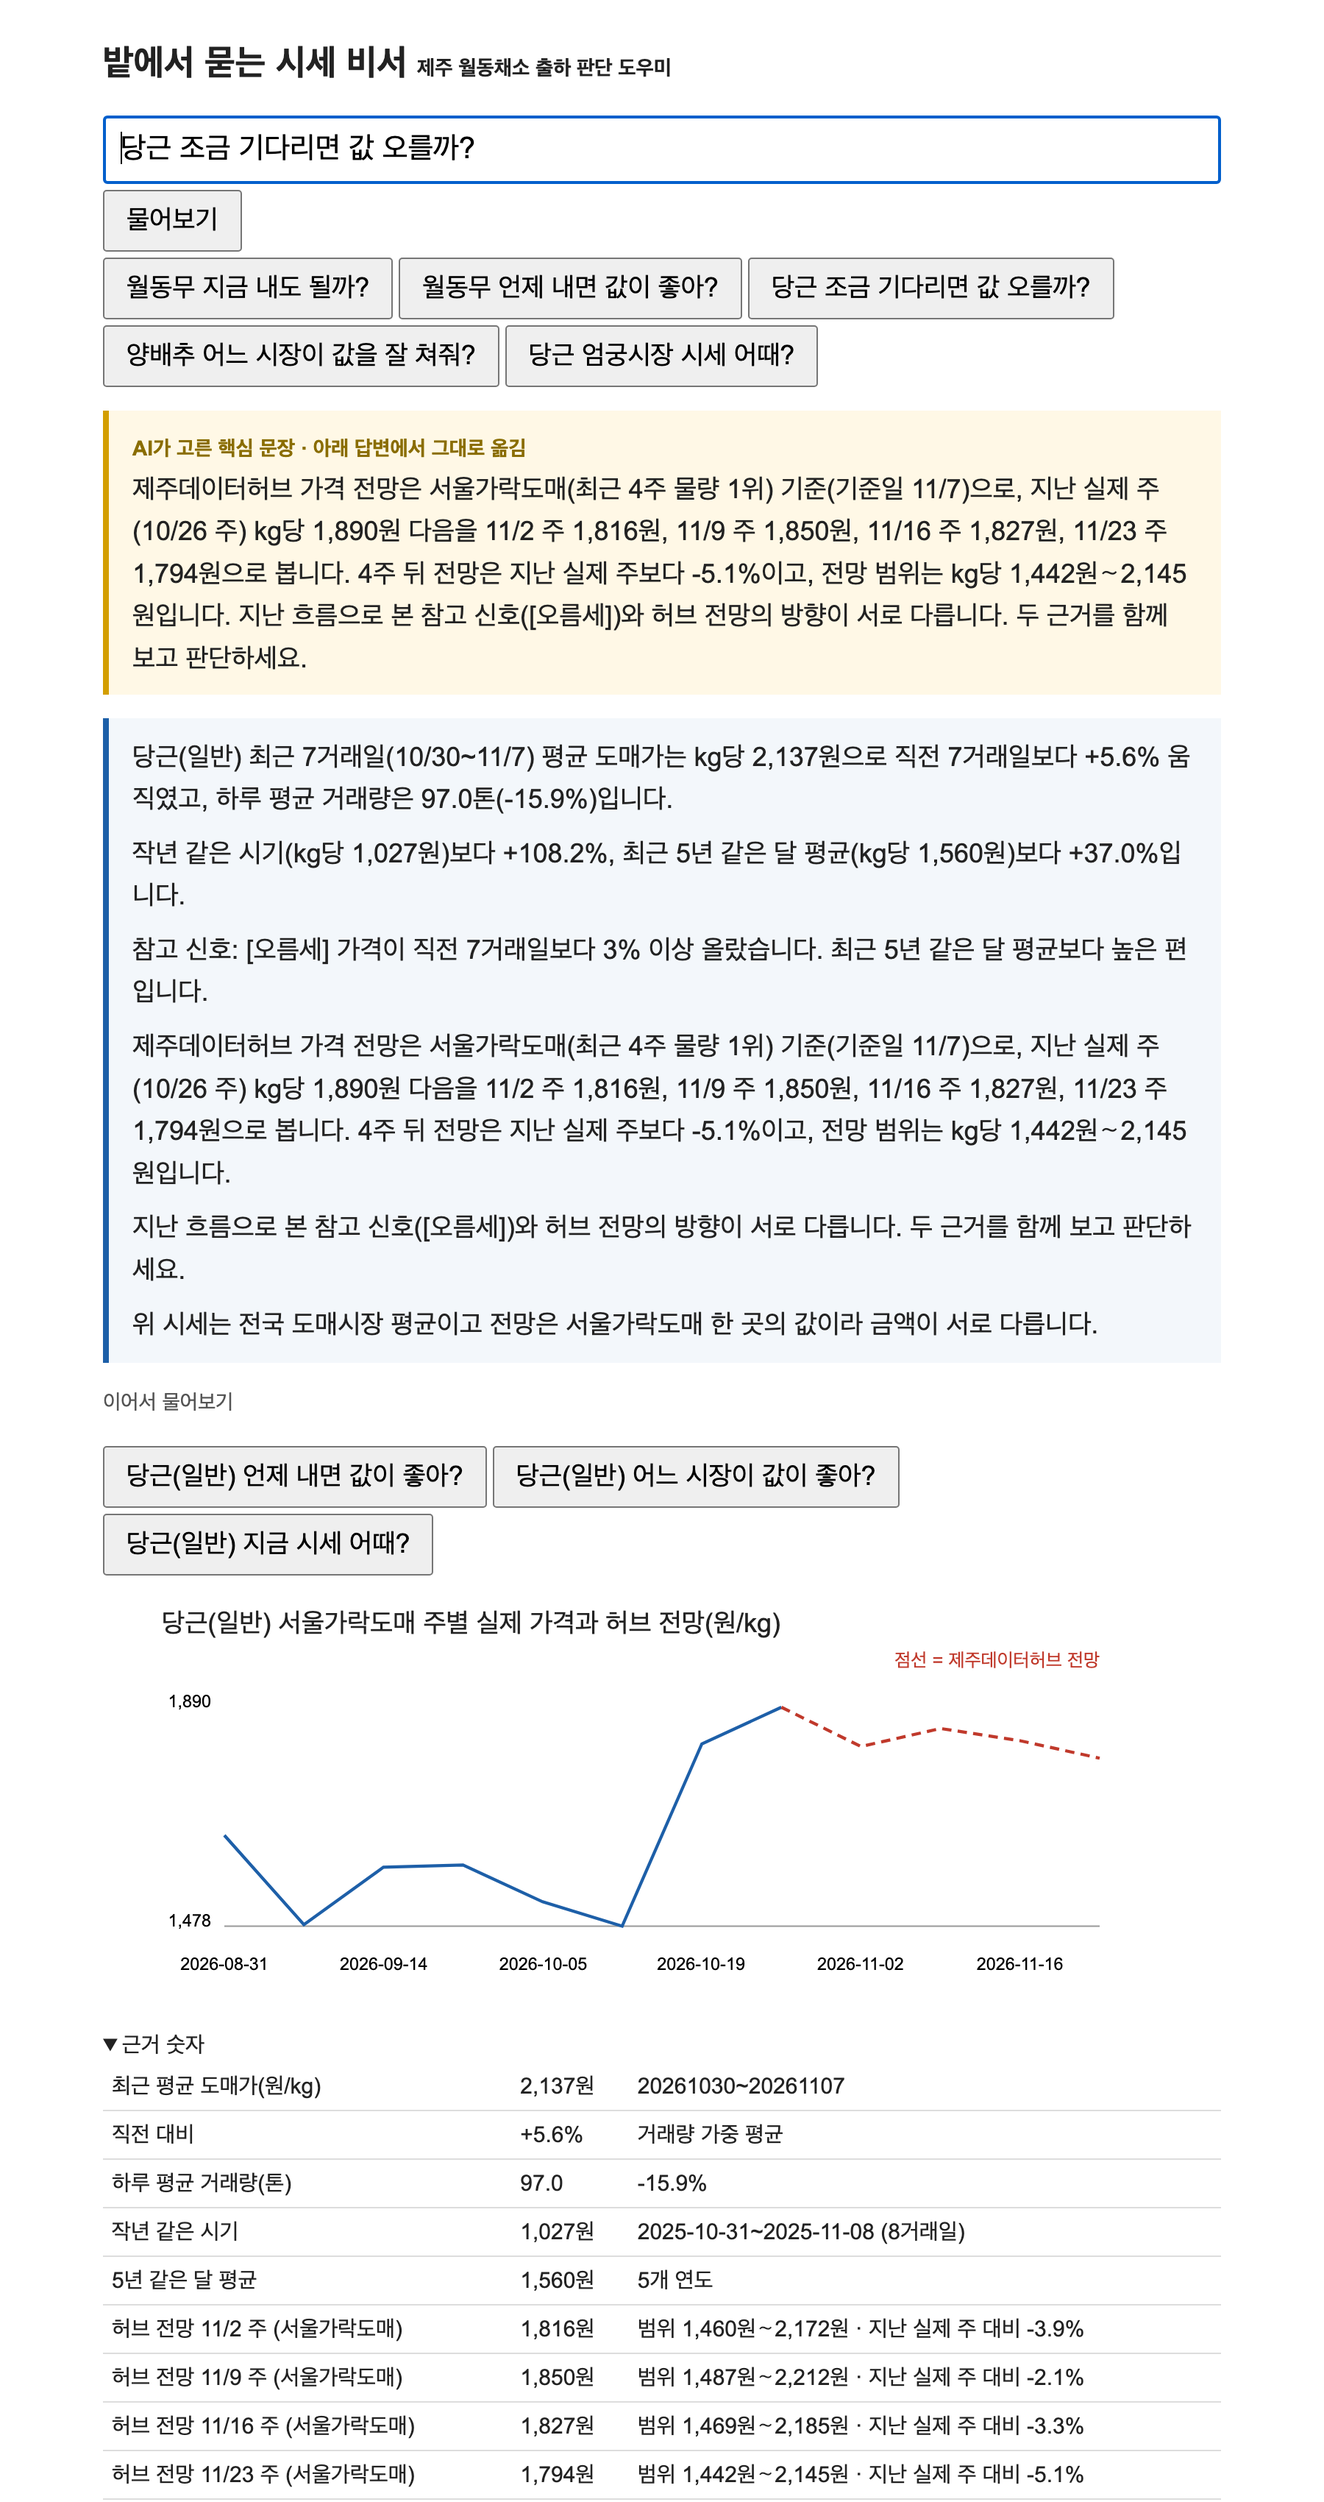
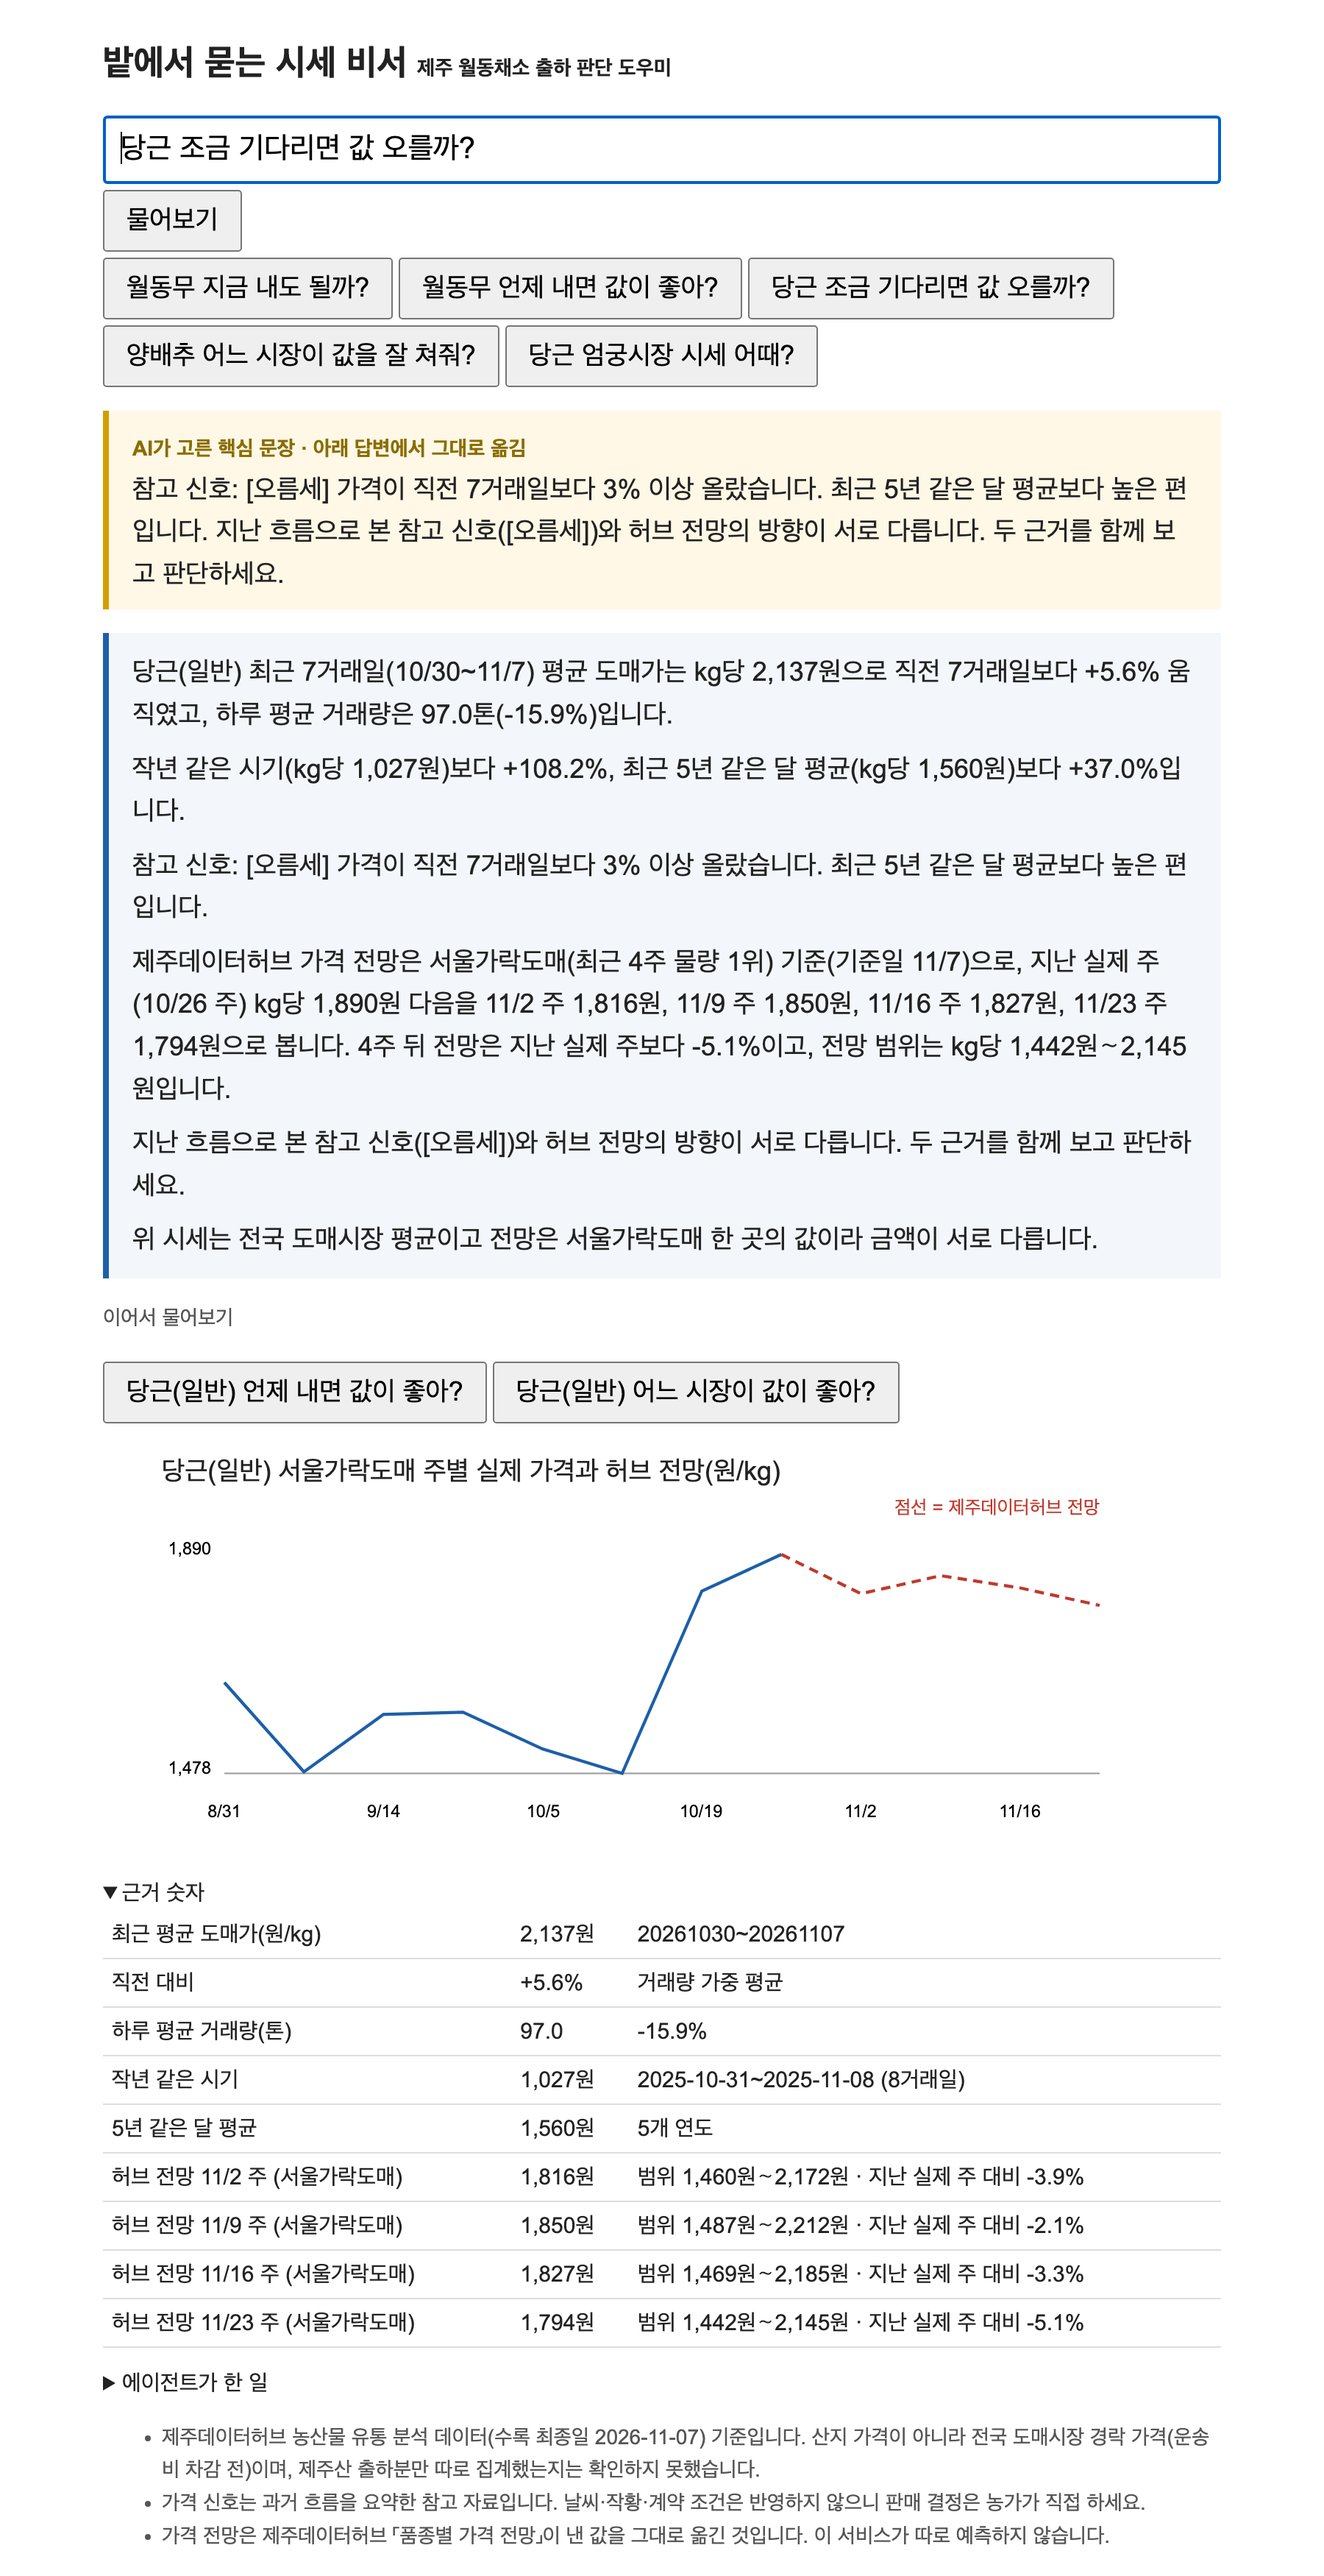
후속 질문 버튼: 이미 실행한 분석은 권하지 않음, 그림 재캡처

diff --git a/jeju_agent/agent.py b/jeju_agent/agent.py
@@ -472,7 +472,8 @@ def answer(question: str) -> Result:
     # 이번에 안 본 분석을 다음 질문 버튼으로 권한다(문장은 코드가 만든다)
     nxt = {"forecast": f"{res.cultivar} 앞으로 몇 주 전망은?", "timing": f"{res.cultivar} 언제 내면 값이 좋아?",
            "market": f"{res.cultivar} 어느 시장이 값이 좋아?", "status": f"{res.cultivar} 지금 시세 어때?"}
-    res.followups = [q for k, q in nxt.items() if k not in intents][:3]
+    ran = {"status": "status", "timing": "season", "market": "market", "forecast": "forecast"}
+    res.followups = [q for k, q in nxt.items() if ran[k] not in res.facts][:3]
     base_answer = " ".join(lines)
     res.lines = lines
     res.answer = base_answer

diff --git a/tests/test_agent.py b/tests/test_agent.py
@@ -207,6 +207,7 @@ class GuardrailTest(unittest.TestCase):
     def test_followups_offer_unrun_analyses(self):
         r = agent.answer("당근 요즘 시세 어때?")
         self.assertIn("당근(일반) 앞으로 몇 주 전망은?", r.followups)
+        self.assertNotIn("당근(일반) 지금 시세 어때?", r.followups)  # 이미 본 분석은 권하지 않는다
 
     def test_auto_asks_llm_when_no_intent_word_but_keeps_rule_crop(self):
         os.environ["LLM_MODEL"] = "fake"
